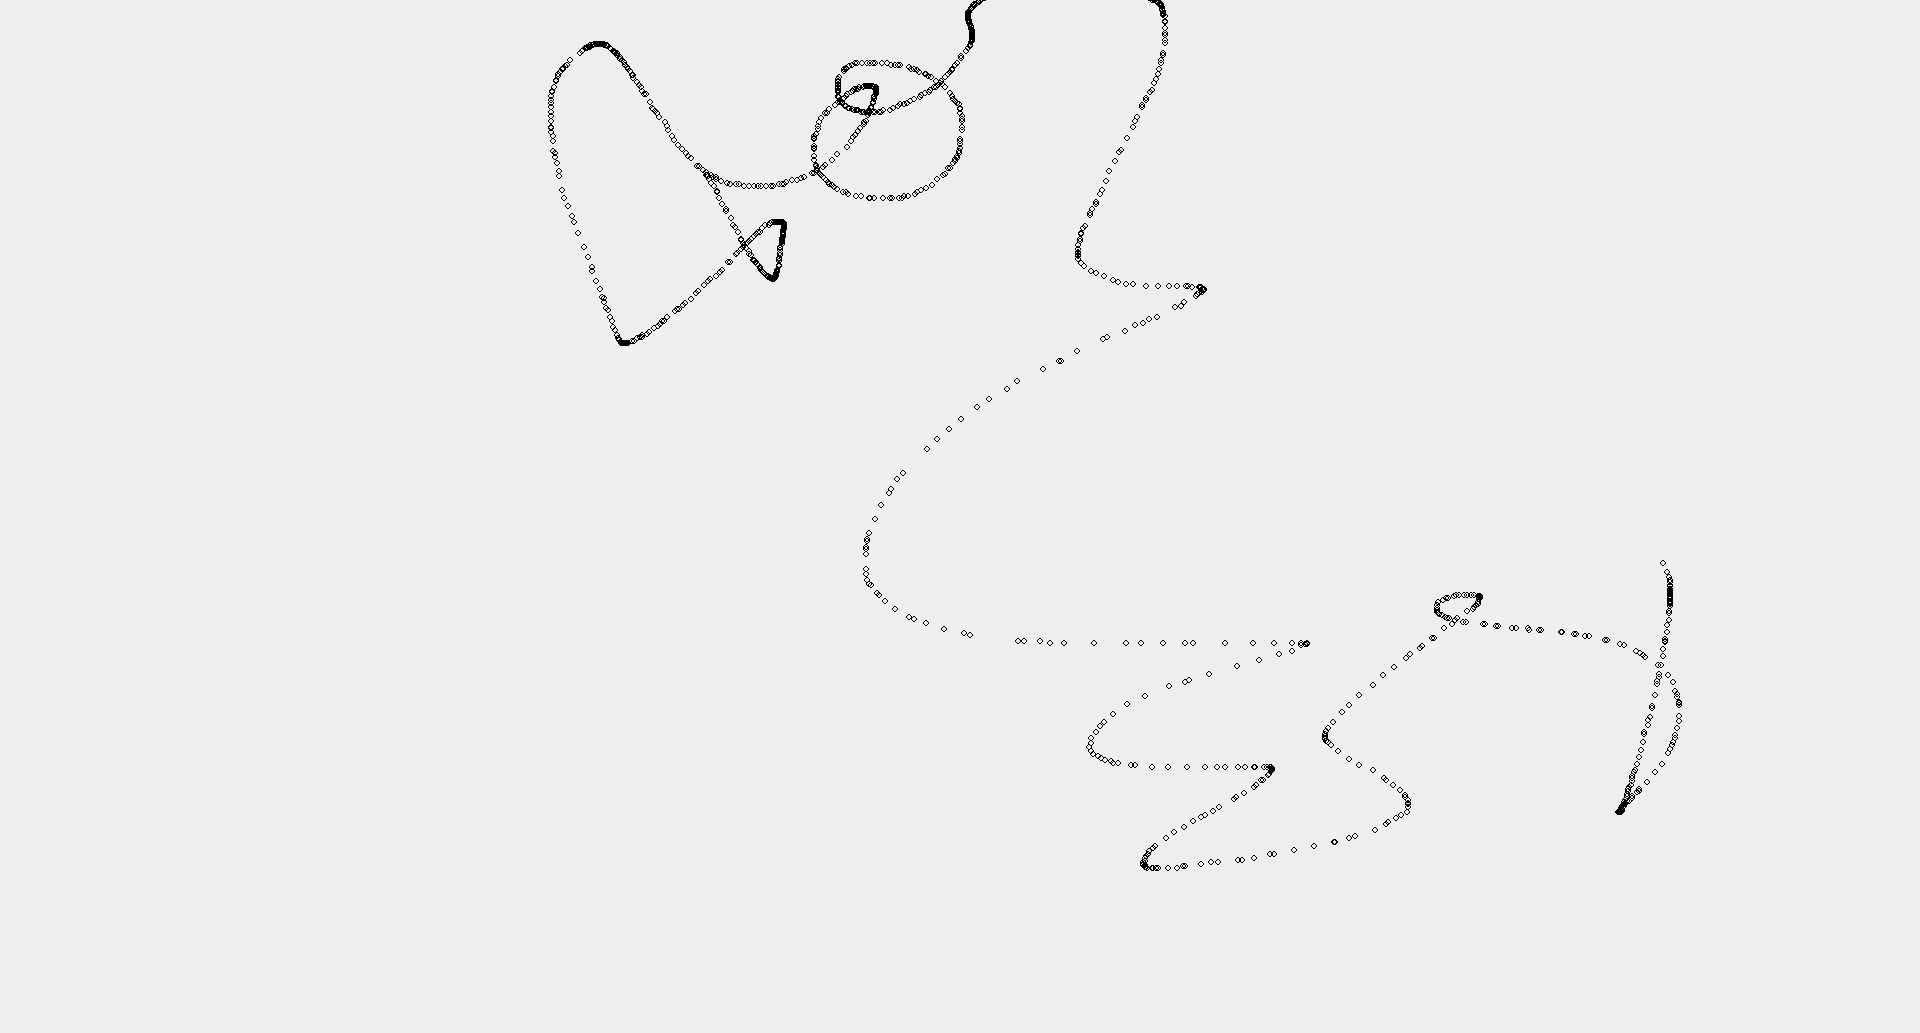
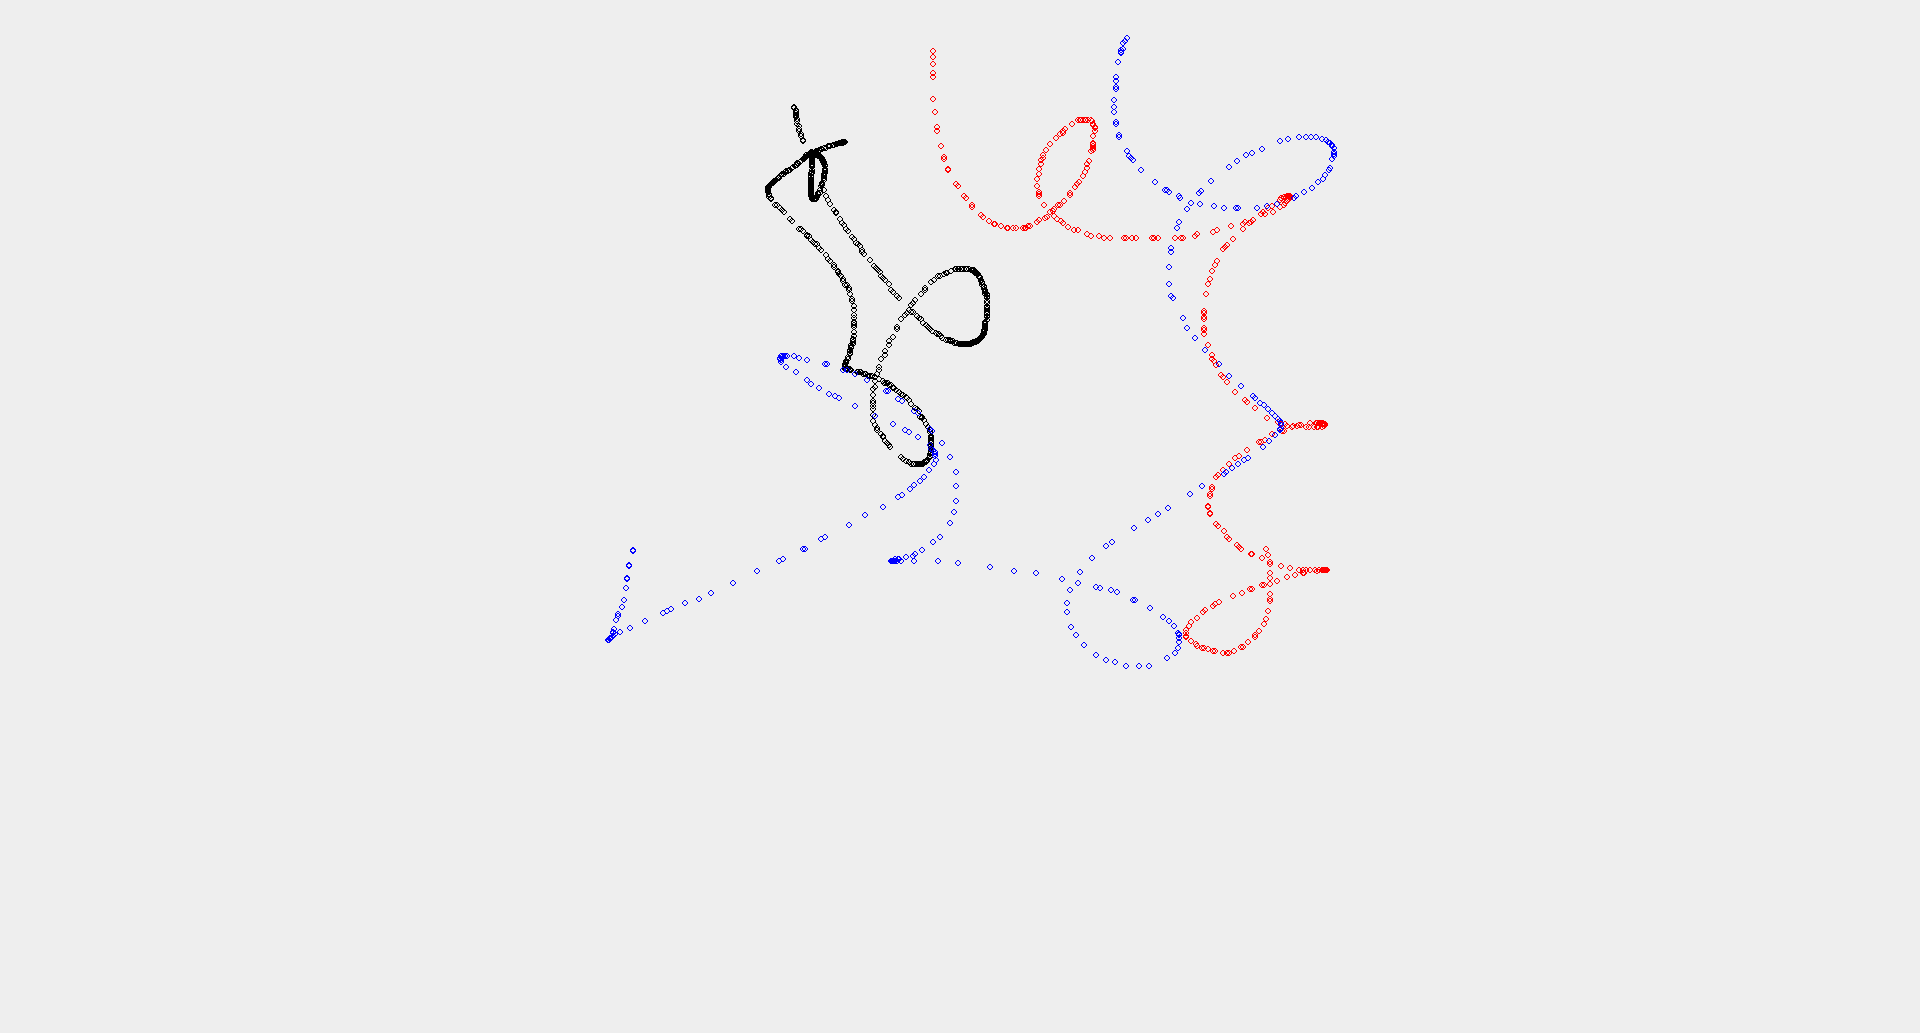
added DrawingArea

diff --git a/week_10/Lab8_ShumanVlad/src/main/java/org/ShumanVlad/program/draw/DrawingPanel.java b/week_10/Lab8_ShumanVlad/src/main/java/org/ShumanVlad/program/draw/DrawingPanel.java
@@ -24,29 +24,20 @@ import java.util.List;
  */
 public class DrawingPanel
         extends JPanel
-        implements MouseListener,
-        MouseMotionListener
 {
-    private List<DrawingObject> objects = new ArrayList<>();
-    private DrawingObject currentObject;
-    private BufferedImage backGroundImage;
     private ToolsPanel toolsPanel;
     private DrawingArea drawingArea;
-
-    private ColorSubscriber currentColor = new ColorSubscriber(Color.BLACK);
-    public ColorSubscriber getCurrentColor(){return this.currentColor;}
+    public DrawingArea getDrawingArea(){return this.drawingArea;}
+    public ColorSubscriber getCurrentColor(){return this.drawingArea.getCurrentColor();}
 
     public DrawingPanel()
     {
-        this.addMouseListener(this);
-        this.addMouseMotionListener(this);
-
-        this.toolsPanel = new ToolsPanel(this);
         this.drawingArea = new DrawingArea();
+        this.toolsPanel = new ToolsPanel(this);
 
         this.setLayout(new BorderLayout());
         this.add(this.toolsPanel,BorderLayout.NORTH);
-        //this.add(this.drawingArea, BorderLayout.CENTER);
+        this.add(this.drawingArea, BorderLayout.CENTER);
 
         //все равно занимает больше места, чем нужно
         //нужно взять другой элемент для отсчёта
@@ -54,89 +45,4 @@ public class DrawingPanel
         this.setPreferredSize(screenSize);
         this.setMinimumSize(screenSize);
     }
-
-    @Override
-    protected void paintComponent(Graphics g) {
-        super.paintComponent(g);
-        if(this.backGroundImage != null)
-            g.drawImage(this.backGroundImage,0,0,this.getWidth(), this.getHeight(), this);
-
-        for (DrawingObject object : this.objects)
-            object.draw(g);
-
-        if (this.currentObject != null)
-            this.currentObject.draw(g);
-    }
-
-    @Override
-    public void mousePressed(MouseEvent e)
-    {
-        this.currentObject = new DrawingObject();
-    }
-
-    @Override
-    public void mouseReleased(MouseEvent e)
-    {
-        this.objects.add(this.currentObject);
-        this.currentObject = null;
-        this.repaint();
-    }
-
-    @Override
-    public void mouseDragged(MouseEvent e) {
-        if (this.currentObject != null)
-        {
-            this.currentObject.add(
-                    new DrawingPoint(
-                            this.currentColor.getColor(),
-                            e.getPoint()
-                    )
-            );
-            this.repaint();
-        }
-    }
-
-    public void drawImage(BufferedImage image)
-    {
-        this.objects.add(new DrawingObject(image));
-        this.repaint();
-    }
-
-    public void setImageBackground(BufferedImage image)
-    {
-        this.backGroundImage = image;
-        this.repaint();
-    }
-
-    public void saveImage(File file)
-    {
-        try
-        {
-            BufferedImage image = new BufferedImage(
-                    this.getWidth(),
-                    this.getHeight()- this.toolsPanel.getHeight(),
-                    BufferedImage.TYPE_INT_RGB
-            );
-            Graphics2D g2d = image.createGraphics();
-
-            g2d.translate(0,-this.toolsPanel.getHeight());
-            this.paint(g2d);
-            g2d.dispose();
-
-            ImageIO.write(image, "png", file);
-        }
-        catch (Exception e)
-        {
-            System.out.println(e.getMessage());
-        }
-    }
-
-    @Override
-    public void mouseClicked(MouseEvent e) {}
-    @Override
-    public void mouseEntered(MouseEvent e) {}
-    @Override
-    public void mouseExited(MouseEvent e) {}
-    @Override
-    public void mouseMoved(MouseEvent e) {}
 }

diff --git a/week_10/Lab8_ShumanVlad/src/main/java/org/ShumanVlad/program/draw/tools/save/SavePanel.java b/week_10/Lab8_ShumanVlad/src/main/java/org/ShumanVlad/program/draw/tools/save/SavePanel.java
@@ -1,6 +1,8 @@
 package org.ShumanVlad.program.draw.tools.save;
 
 import org.ShumanVlad.program.draw.DrawingPanel;
+import org.ShumanVlad.program.draw.elemets.DrawingArea;
+import org.ShumanVlad.program.draw.elemets.DrawingPoint;
 import org.ShumanVlad.program.draw.tools.save.elements.OpenDialogButton;
 import org.ShumanVlad.program.draw.tools.save.elements.SaveDialogButton;
 
@@ -13,10 +15,11 @@ public class SavePanel extends JPanel
 {
     OpenDialogButton openButton;
     SaveDialogButton saveButton;
-    DrawingPanel drawingPanel;
+    DrawingArea drawingArea;
+
     public SavePanel(DrawingPanel drawingPanel)
     {
-        this.drawingPanel = drawingPanel;
+        this.drawingArea = drawingPanel.getDrawingArea();
         try
         {
             this.saveButton = new SaveDialogButton(this);this.add(this.saveButton);
@@ -27,7 +30,7 @@ public class SavePanel extends JPanel
             System.out.println(e.getMessage());
         }
     }
-    public DrawingPanel getParentDP(){return this.drawingPanel;}
+    public DrawingArea getDrawingArea(){return this.drawingArea;}
     public void openImage()
     {
         try
@@ -37,7 +40,7 @@ public class SavePanel extends JPanel
             {
                 File file = fileChooser.getSelectedFile();
                 BufferedImage image = ImageIO.read(file);
-                this.drawingPanel.drawImage(image);
+                this.drawingArea.drawImage(image);
             }
 
         }

diff --git a/week_10/Lab8_ShumanVlad/src/main/java/org/ShumanVlad/program/draw/elemets/DrawingArea.java b/week_10/Lab8_ShumanVlad/src/main/java/org/ShumanVlad/program/draw/elemets/DrawingArea.java
@@ -46,17 +46,15 @@ public class DrawingArea
     }
 
     @Override
-    public void mousePressed(MouseEvent e) {this.currentObject = new DrawingObject();}
-
-    @Override
-    public void mouseReleased(MouseEvent e) {
-        this.objects.add(this.currentObject);
-        this.currentObject = null;
-        this.repaint();
+    public void mousePressed(MouseEvent e)
+    {
+        this.currentObject = new DrawingObject();
     }
 
+
     @Override
-    public void mouseEntered(MouseEvent e) {
+    public void mouseDragged(MouseEvent e)
+    {
         if (this.currentObject != null)
         {
             this.currentObject.add(
@@ -68,6 +66,15 @@ public class DrawingArea
             this.repaint();
         }
     }
+
+    @Override
+    public void mouseReleased(MouseEvent e) {
+        this.objects.add(this.currentObject);
+        this.currentObject = null;
+        this.repaint();
+    }
+
+
     public void drawImage(BufferedImage image)
     {
         this.objects.add(new DrawingObject(image));
@@ -104,6 +111,6 @@ public class DrawingArea
 
     @Override public void mouseClicked(MouseEvent e) {}
     @Override public void mouseExited(MouseEvent e) {}
-    @Override public void mouseDragged(MouseEvent e) {}
     @Override public void mouseMoved(MouseEvent e) {}
+    @Override public void mouseEntered(MouseEvent e) {}
 }

diff --git a/week_10/Lab8_ShumanVlad/src/main/java/org/ShumanVlad/program/draw/tools/save/elements/SaveDialogButton.java b/week_10/Lab8_ShumanVlad/src/main/java/org/ShumanVlad/program/draw/tools/save/elements/SaveDialogButton.java
@@ -34,7 +34,7 @@ public class SaveDialogButton extends JButton
             if (fileChooser.showOpenDialog(this.getParent().getParent()) == JFileChooser.APPROVE_OPTION)
             {
                 File file = fileChooser.getSelectedFile();
-                this.savePanel.getParentDP().saveImage(file);
+                this.savePanel.getDrawingArea().saveImage(file);
             }
         }
         catch (Exception e)

diff --git a/week_10/Lab8_ShumanVlad/src/main/java/org/ShumanVlad/program/draw/tools/save/elements/OpenDialogButton.java b/week_10/Lab8_ShumanVlad/src/main/java/org/ShumanVlad/program/draw/tools/save/elements/OpenDialogButton.java
@@ -36,7 +36,7 @@ public class OpenDialogButton extends JButton
                 File file = fileChooser.getSelectedFile();
                 BufferedImage image = ImageIO.read(file);
                 //this.savePanel.getParentDP().drawImage(image);
-                this.savePanel.getParentDP().setImageBackground(image);
+                this.savePanel.getDrawingArea().setImageBackground(image);
             }
 
         }

diff --git a/week_10/Lab8_ShumanVlad/src/main/java/org/ShumanVlad/program/draw/tools/colors/ColorPanel.java b/week_10/Lab8_ShumanVlad/src/main/java/org/ShumanVlad/program/draw/tools/colors/ColorPanel.java
@@ -14,7 +14,6 @@ public class ColorPanel extends JPanel
 
     public ColorPanel(ColorSubscriber subscriber)
     {
-
         super();
         blackButton = new ColorButton(subscriber,Color.BLACK); this.add(this.blackButton);
         redButton = new ColorButton(subscriber,Color.RED); this.add(this.redButton);
